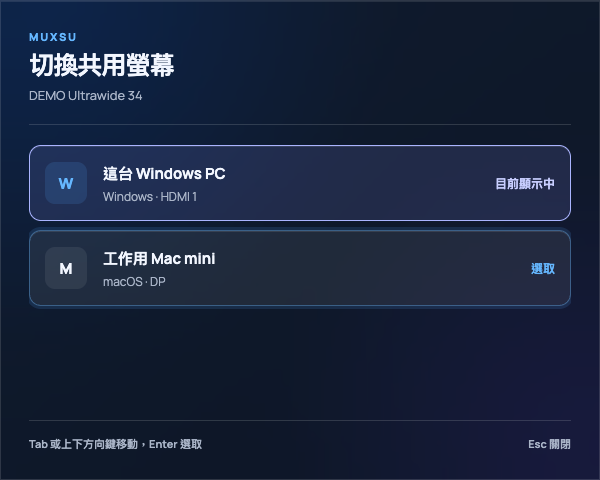
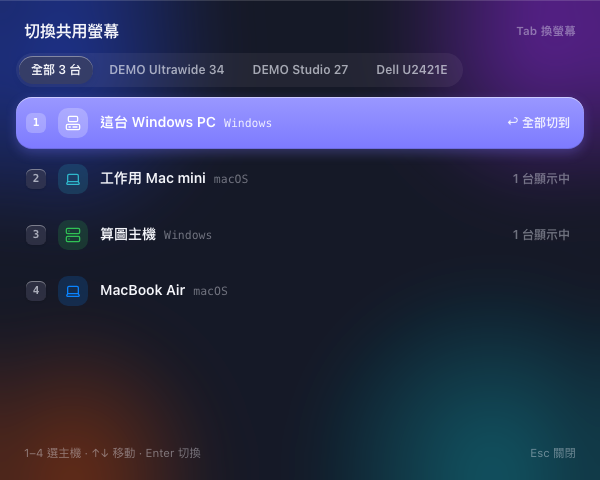
docs: refresh README screenshots for the redesigned interface

diff --git a/docs/redesign/demo/demo-backend.ts b/docs/redesign/demo/demo-backend.ts
@@ -4,7 +4,7 @@
  * the app's own entry points, so nothing here ships.
  *
  * Query parameters:
- *   scenario = 2x2 (default) | 1x3 | 3x4 | 1x5 | empty
+ *   scenario = 2x2 (default) | 1x3 | 3x4 | 1x5 | empty | merge
  *   lang     = zh-TW | en
  *   theme    = light | dark
  */
@@ -16,6 +16,8 @@ interface DemoPeer { id: string; name: string; platform: Platform; address: stri
 
 const params = new URLSearchParams(location.search);
 const scenario = params.get("scenario") ?? "2x2";
+/** Demo names follow the requested language, so an English screenshot shows no Chinese. */
+const isEnglish = params.get("lang") === "en";
 try {
   const lang = params.get("lang");
   if (lang === "zh-TW" || lang === "en") localStorage.setItem("muxsu.locale", lang);
@@ -34,8 +36,8 @@ const displays: DemoDisplay[] = [
   { key: "demo-u24", name: "Dell U2421E", fp: { manufacturer_id: "DEL", product_code: "A1F4", serial_number: "DEMO-003" }, width: 1920, height: 1200, inputs: [DP, HDMI1, HDMI2, TYPEC] },
 ];
 const allPeers: DemoPeer[] = [
-  { id: "peer-macmini", name: "工作用 Mac mini", platform: "mac", address: "192.168.1.20", mac: "AA:BB:CC:00:00:01" },
-  { id: "peer-nuc", name: "Linux NUC", platform: "windows", address: "192.168.1.31", mac: "AA:BB:CC:00:00:02" },
+  { id: "peer-macmini", name: isEnglish ? "Work Mac mini" : "工作用 Mac mini", platform: "mac", address: "192.168.1.20", mac: "AA:BB:CC:00:00:01" },
+  { id: "peer-nuc", name: isEnglish ? "Render PC" : "算圖主機", platform: "windows", address: "192.168.1.31", mac: "AA:BB:CC:00:00:02" },
   { id: "peer-air", name: "MacBook Air", platform: "mac", address: "192.168.1.42", mac: "" },
   { id: "peer-thinkpad", name: "ThinkPad", platform: "windows", address: "192.168.1.55", mac: "AA:BB:CC:00:00:04" },
 ];
@@ -52,14 +54,16 @@ const shape = {
   "3x4": { displays: 3, peers: 3, active: ["local", "peer-macmini", "peer-nuc"] },
   "1x5": { displays: 1, peers: 4, active: ["peer-nuc"] },
   "empty": { displays: 0, peers: 1, active: [] },
+  // Studio 27 reports a different identity in another display mode.
+  "merge": { displays: 2, peers: 1, active: ["local", "local"] },
 }[scenario] ?? { displays: 2, peers: 1, active: ["local", "peer-macmini"] };
 
 const shared = displays.slice(0, shape.displays);
 const peers = allPeers.slice(0, shape.peers);
 const routeIds = ["local", ...peers.map((peer) => peer.id)];
 const activeRoute: Record<string, string> = Object.fromEntries(shared.map((display, index) => [display.key, shape.active[index] ?? "local"]));
-const hostNames: Record<string, string> = { local: "這台 Windows PC" };
-const inputLabels: Record<string, Record<number, string>> = { "demo-uw34": { [TYPEC]: "USB-C 擴充座" } };
+const hostNames: Record<string, string> = { local: isEnglish ? "This Windows PC" : "這台 Windows PC" };
+const inputLabels: Record<string, Record<number, string>> = { "demo-uw34": { [TYPEC]: isEnglish ? "USB-C dock" : "USB-C 擴充座" } };
 /** Custom looks by route id, as `get_host_appearances` returns them. */
 const hostAppearances: Record<string, { icon: string | null; color: string | null }> =
   scenario === "3x4" ? { "peer-nuc": { icon: "server", color: "green" } } : {};
@@ -82,8 +86,16 @@ function monitorDescriptor(display: DemoDisplay) {
   };
 }
 
+/** Studio 27 as it reports itself at 1920×1080: same panel, another product code. */
+const studioAtLowRes: DemoDisplay = {
+  key: "demo-st27-1080", name: "DEMO Studio 27", fp: { manufacturer_id: "DMO", product_code: "7270", serial_number: null },
+  width: 1920, height: 1080, inputs: [],
+};
+
 function dashboardState() {
-  const present = scenario === "empty" ? displays.slice(0, 2) : displays.slice(0, Math.max(shape.displays, 2));
+  const present = scenario === "empty" ? displays.slice(0, 2)
+    : scenario === "merge" ? [displays[0], studioAtLowRes]
+    : displays.slice(0, Math.max(shape.displays, 2));
   return {
     platform: "windows", localHost: "windows", agentConfigured: true,
     monitors: present.map(monitorDescriptor),
@@ -94,8 +106,10 @@ function dashboardState() {
       statusText: "", connection: null, connectionInputConflict: false,
     })),
     selectionNotices: [],
-    monitorIdentityClaims: [],
-    resolvedMonitorIdentities: identities(),
+    monitorIdentityClaims: scenario === "merge"
+      ? [{ aliasKey: "DMO/3411/", aliasLabel: "DEMO Ultrawide 34 (DMO/3411)", primaryKey: "demo-uw34", primaryLabel: "DEMO Ultrawide 34" }]
+      : [],
+    resolvedMonitorIdentities: { ...identities(), [JSON.stringify(studioAtLowRes.fp)]: studioAtLowRes.key },
     localHostName: "DESKTOP-DEMO",
   };
 }

diff --git a/docs/redesign/demo/demo-drive.ts b/docs/redesign/demo/demo-drive.ts
@@ -1,0 +1,38 @@
+/**
+ * Development only: puts the demo into a state named by the URL, so a
+ * screenshot can be taken without clicking. Runs after the app has rendered.
+ *
+ *   page  = settings        open the settings page
+ *   tab   = displays | hosts | startup | appearance | help | reset
+ *   look  = <route id>      open that host's icon and colour picker
+ *   scrollTo = <selector>   scroll that element into view
+ */
+const params = new URLSearchParams(location.search);
+
+function whenReady(run: () => void): void {
+  const started = Date.now();
+  const tick = () => {
+    if (document.querySelector("#switch-panel")?.children.length || Date.now() - started > 3000) run();
+    else setTimeout(tick, 50);
+  };
+  tick();
+}
+
+whenReady(() => {
+  if (params.get("page") === "settings") document.querySelector<HTMLElement>('[data-page="settings"]')?.click();
+  const tab = params.get("tab");
+  if (tab) document.querySelector<HTMLElement>(`[data-settings-tab="${CSS.escape(tab)}"]`)?.click();
+  const look = params.get("look");
+  if (look) document.querySelector<HTMLElement>(`[data-edit-look="${CSS.escape(look)}"]`)?.click();
+  const target = params.get("scrollTo");
+  if (target) {
+    setTimeout(() => {
+      const element = document.querySelector<HTMLElement>(target);
+      // Leave room for the floating top bar above the section title.
+      element?.style.setProperty("scroll-margin-top", "96px");
+      element?.scrollIntoView({ block: "start" });
+    }, 50);
+  }
+  (document.activeElement as HTMLElement | null)?.blur();
+  document.documentElement.dataset.demoReady = "true";
+});

diff --git a/docs/redesign/demo/demo.html b/docs/redesign/demo/demo.html
@@ -11,5 +11,6 @@
     <!-- Development only: a stand-in backend with demo data, then the real app. -->
     <script type="module" src="./demo-backend.ts"></script>
     <script type="module" src="/src/main.ts"></script>
+    <script type="module" src="./demo-drive.ts"></script>
   </body>
 </html>

diff --git a/README.en.md b/README.en.md
@@ -41,17 +41,20 @@ You can share more than one monitor; each host stores its own input port for eac
 **What the two hosts work out between themselves**
 
 - Adding a host that is already set up fills in the port it occupies, when that can be established safely.
-- What one host learns is shared with the others: each host's port, the display's declared input list, input notes, host names and order, and display identity merges.
+- What one host learns is shared with the others: each host's port, the display's declared input list, input notes, host names, order, icons and colours, and display identity merges.
 - A notice that does not arrive is said again on the next scan, until it lands.
 
 **Switching**
 
 - Pick the target host in the switch centre. There is no switching mode to choose.
 - With several shared monitors, one action sends all of them to the same host.
-- A global shortcut can summon a small host picker even while the main window is hidden.
+- With many displays or hosts (3+ displays or 4+ hosts) the switch centre becomes a matrix — a row per display, a column per host. You can also change the view by hand.
+- A global shortcut can summon a small host picker even while the main window is hidden: number keys pick a host, Tab changes the target display.
+- The tray (the menu bar on macOS) switches too: every display to one host, or each display on its own.
 
 **Also**
 
+- Each host can wear an icon and a colour (12 icons, 10 colours), which the switch centre, the switcher and settings use to tell hosts apart.
 - When one display reports different identities in different display modes, you can declare that they are the same display.
 - Reset comes in two scopes: displays only, or back to a fresh installation.
 - The interface is available in English and Traditional Chinese, in light and dark appearance.
@@ -62,21 +65,25 @@ The computer names, addresses and display details shown below are anonymized sam
 
 ### Switch Center
 
-Which computer each shared monitor is currently handed to, and the input each one uses. With more than one shared monitor, a control at the top sends all of them to the same host at once.
+Which computer each shared monitor is currently handed to, and the input each one uses; the screen takes on the colour of the host it shows. With more than one shared monitor, a control at the top sends all of them to the same host at once.
 
 ![MuxSU switch center with two shared monitors, one on this PC and one on the Mac](assets/screenshots/switch-center.en.png)
 
-### Display and Host Settings (top)
+With more displays or hosts, the matrix view shows at a glance which host every display is on. Click any cell to switch it; "Switch all" above a column hands every display to that host.
 
-Choosing shared monitors, naming this computer, its port on each monitor, and input notes.
+![MuxSU switch center in matrix view, with three shared displays and four hosts](assets/screenshots/switch-center-matrix.en.png)
 
-![MuxSU display and host settings, upper half, with two shared monitors and their ports](assets/screenshots/monitor-and-host-settings.en.png)
+### Settings › Displays
 
-### Display and Host Settings (lower)
+Choosing shared monitors, this computer's port on each of them, and input notes.
 
-Added hosts and their inputs, the pairing password, the global shortcut, and reset at the bottom.
+![MuxSU Displays settings tab, with two shared monitors and their ports](assets/screenshots/settings-displays.en.png)
 
-![MuxSU display and host settings, lower half, with added hosts, pairing password, shortcut and reset](assets/screenshots/hosts-and-reset.en.png)
+### Settings › Hosts & Pairing
+
+Added hosts and their inputs, other hosts found on the network, and the pairing password. The pencil next to a host renames it and changes its icon and colour.
+
+![MuxSU Hosts & Pairing settings tab, choosing an icon and colour for the Mac mini](assets/screenshots/settings-hosts.en.png)
 
 ## Before You Begin
 
@@ -94,7 +101,7 @@ A monitor that shows a picture is not necessarily passing DDC/CI through the cab
 
 ### 1. Select the Shared Monitor
 
-Open the Display and Host settings page and refresh the monitor list:
+Open Settings › Displays and refresh the monitor list:
 
 - On first setup, if there is exactly one controllable external monitor, MuxSU selects it for you.
 - Otherwise choose by hand. You can select more than one shared monitor.
@@ -112,13 +119,13 @@ Ports appear as VGA, DVI, DP, HDMI or Type-C, so there are no technical codes to
 
 ### 3. Set a Pairing Password
 
-Enter exactly the same pairing password on every computer, at least 15 characters long.
+In Settings › Hosts & Pairing, enter exactly the same pairing password on every computer, at least 15 characters long.
 
 The password signs and verifies the requests hosts make of each other on the local network — asking for status, asking another host to perform a switch, and sending a wake. Hosts with different passwords cannot control each other.
 
 ### 4. Add Other Hosts
 
-Find the other computer under "Add other hosts on this network" and press Add.
+In Settings › Hosts & Pairing, find the other computer under "Other hosts on this network" and press Add.
 
 If that computer has already selected its shared monitor, MuxSU fills in the port it uses when all of the following hold:
 
@@ -133,7 +140,7 @@ Both hosts must use the same MuxSU Agent protocol version. When they differ, Mux
 
 ### 5. Save and Repeat on the Other Computers
 
-Most settings are saved as you change them: which monitors are shared, this computer's input port, input notes, host names and order, and display identity merges.
+Most settings are saved as you change them: which monitors are shared, this computer's input port, input notes, host names, order, icons and colours, and display identity merges.
 
 These five wait for the Save button, and a note with a cancel appears at the bottom of the form while one of them is waiting:
 
@@ -160,17 +167,21 @@ If the network Agent is temporarily unreachable, MuxSU still tries local DDC/CI.
 
 On Windows, closing or minimizing the window leaves the app running in the system tray. Only "Quit MuxSU" from the tray actually exits.
 
+The tray menu (the menu bar icon on macOS) switches too: "Switch every display to" lists each host, and each shared display has a submenu of its own, with a check next to the host it is showing.
+
 ### Global Host Switcher
 
-With "Global host switcher" enabled in settings, a shortcut (`Ctrl/Cmd + Alt + Space` by default) summons a small window for handing the shared monitor to another host, without returning to the main window first. You can record your own shortcut; the app checks it against common application shortcuts before accepting it.
+With "Global host switcher" enabled in Settings › Shortcut & Startup, a shortcut (`Ctrl/Cmd + Alt + Space` by default) summons a small window for handing the shared monitor to another host, without returning to the main window first. You can record your own shortcut; the app checks it against common application shortcuts before accepting it.
 
-![MuxSU host switcher window listing this computer and the added Mac](assets/screenshots/host-switcher.en.png)
+In the window, number keys pick a host directly, the arrow keys move and Enter switches. With several shared displays, Tab moves the target between all of them and each one on its own; Esc closes it.
+
+![MuxSU host switcher window listing four hosts, targeting all three displays](assets/screenshots/host-switcher.en.png)
 
 ## One Display, Different Identities
 
 Some displays report a different identity when they change display mode — from 4K to 1080p, say — so the list makes it look as though a different monitor arrived, and the sharing and port settings that belonged to it appear to vanish.
 
-When that happens, the settings page lists the identity that belongs to no shared display, and you can merge it into one already in the list: this is the same display. From then on the two identities count as one monitor, switching and port settings carry over, and the declaration is shared with paired hosts. A merge can be undone.
+When that happens, Settings › Displays lists the identity that belongs to no shared display, and you can merge it into one already in the list: this is the same display. From then on the two identities count as one monitor, switching and port settings carry over, and the declaration is shared with paired hosts. A merge can be undone.
 
 A merge only decides which identities count as the same display. It does not relax the safety check on switching: before any DDC/CI command goes out, the display's identity must still match exactly.
 
@@ -178,7 +189,7 @@ A merge only decides which identities count as the same display. It does not rel
 
 ## Reset
 
-Two scopes are offered at the bottom of the settings page, each needing a second press to confirm:
+Two scopes are offered under Settings › Reset (bottom left of the sidebar), each needing a second press to confirm:
 
 - **Reset display settings** — clears shared monitors, identity merges and input notes. Paired hosts and the pairing password are kept.
 - **Reset everything** — back to a fresh installation, including paired hosts and the pairing password. This computer's host identity is kept, so there is nothing to clear on the other computer.
